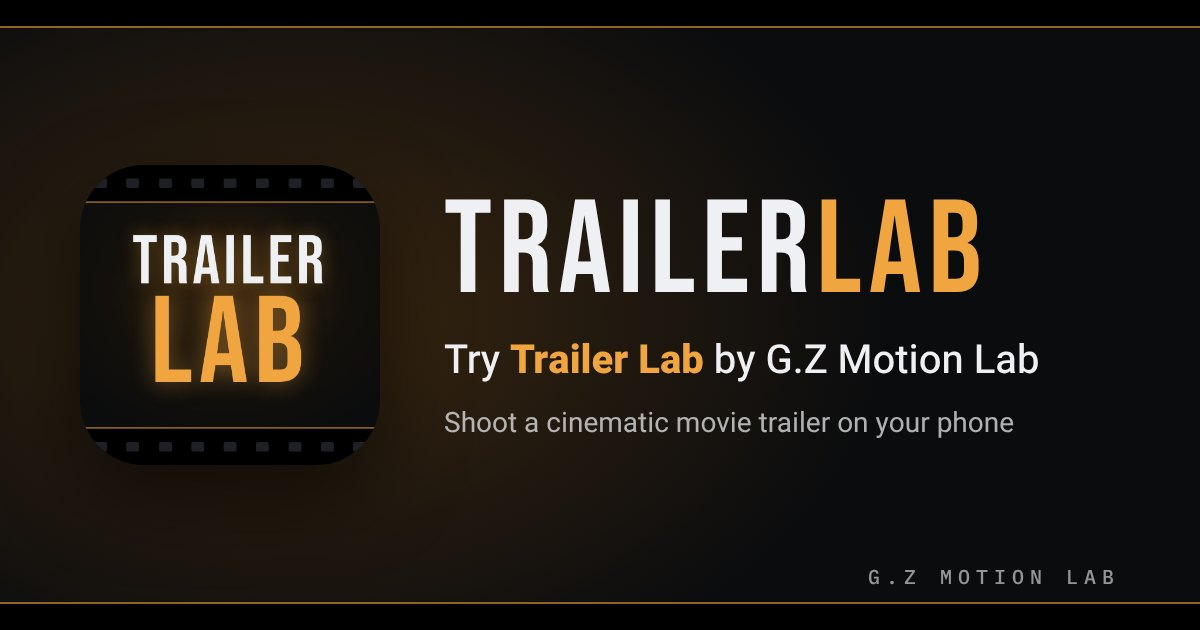
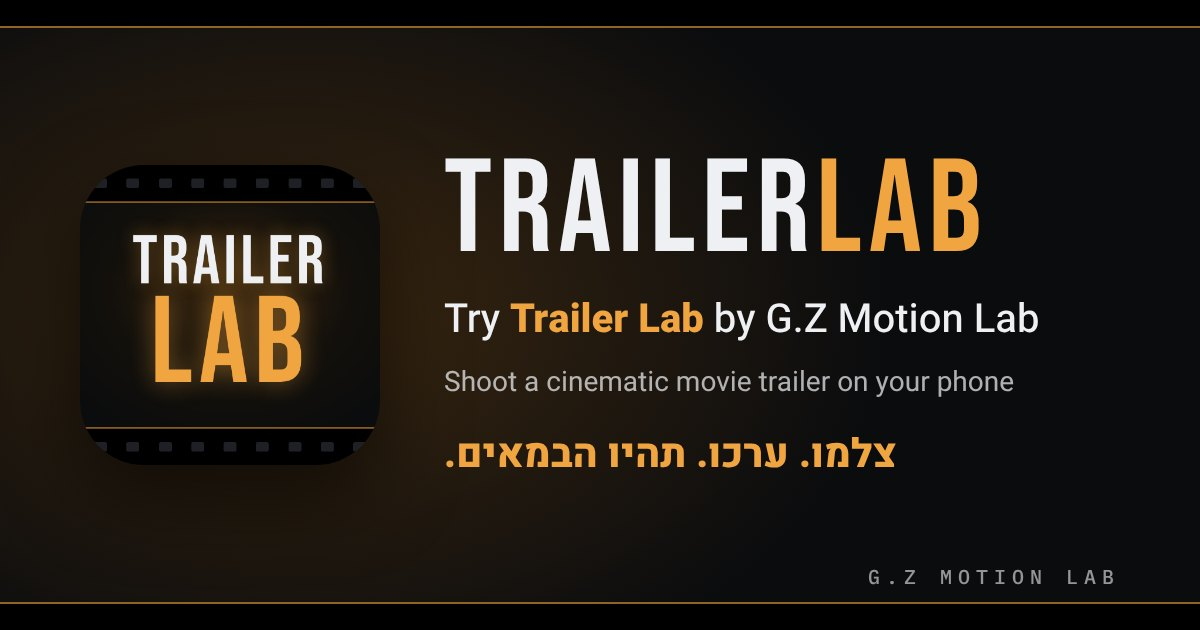
Marketing line for kids and teens: shoot, edit, be the director
Claude-Session: https://claude.ai/code/session_01VdLm7zTEMd1huVT5ckAVnR

Changed region(s): [[0.37, 0.2413, 0.8633, 0.754]]

diff --git a/index.html b/index.html
@@ -6,7 +6,7 @@
 <meta property="og:type" content="website">
 <meta property="og:site_name" content="G.Z Motion Lab">
 <meta property="og:title" content="Trailer Lab · by G.Z Motion Lab">
-<meta property="og:description" content="Try Trailer Lab by G.Z Motion Lab. Shoot a cinematic movie trailer on your phone.">
+<meta property="og:description" content="Try Trailer Lab by G.Z Motion Lab. צלמו. ערכו. תהיו הבמאים: טריילר קולנועי מהטלפון.">
 <meta property="og:url" content="https://gzfilm.github.io/trailer-lab/">
 <meta property="og:image" content="https://gzfilm.github.io/trailer-lab/share.jpg">
 <meta property="og:image:secure_url" content="https://gzfilm.github.io/trailer-lab/share.jpg">
@@ -16,10 +16,10 @@
 <meta property="og:image:alt" content="Trailer Lab · by G.Z Motion Lab">
 <meta name="twitter:card" content="summary_large_image">
 <meta name="twitter:title" content="Trailer Lab · by G.Z Motion Lab">
-<meta name="twitter:description" content="Try Trailer Lab by G.Z Motion Lab. Shoot a cinematic movie trailer on your phone.">
+<meta name="twitter:description" content="Try Trailer Lab by G.Z Motion Lab. צלמו. ערכו. תהיו הבמאים: טריילר קולנועי מהטלפון.">
 <meta name="twitter:image" content="https://gzfilm.github.io/trailer-lab/share.jpg">
 <meta name="theme-color" content="#0b0c0e">
-<meta name="description" content="צילום טריילרים קולנועיים בטלפון ובטאבלט">
+<meta name="description" content="האפליקציה שהופכת כל ילד ונער לבמאי: מצלמים בטלפון לפי רשימת שוטים מקצועית, ומקבלים טריילר קולנועי עם כותרות, מוזיקה וקרדיטים.">
 <link rel="manifest" href="manifest.webmanifest">
 <link rel="icon" type="image/png" href="icons/favicon-48.png">
 <link rel="apple-touch-icon" href="icons/apple-touch-icon.png">
@@ -399,7 +399,7 @@ h1,h2,h3{margin:0;font-weight:700;text-wrap:balance}
       <div class="hero">
         <span class="eyebrow">פרויקט חדש</span>
         <h1 class="h1">איזה טריילר מצלמים היום?</h1>
-        <p class="dim" style="margin:0">כל ז׳אנר מגיע עם רשימת שוטים, כרטיסי כותרת, גרפיקה ומוזיקה מקורית. מצלמים כל שוט 5 שניות, והאפליקציה עורכת.</p>
+        <p class="dim" style="margin:0">צלמו. ערכו. תהיו הבמאים. בוחרים ז׳אנר, מצלמים כל שוט 5 שניות לפי רשימת שוטים של במאי, והאפליקציה עורכת טריילר עם כותרות, מוזיקה וקרדיטים.</p>
       </div>
       <button class="panel cont" id="contCard" hidden></button>
       <div class="genres" id="genres"></div>
@@ -1898,7 +1898,8 @@ $("#drawer nav").addEventListener("click",async e=>{const b=e.target.closest("bu
     info("הוספה למסך הבית",`<p>ככה מוסיפים את האייקון של Trailer Lab למסך הבית:</p><ul><li>פתח את <b>${APP_URL.replace("https://","")}</b> ב-Chrome.</li><li>לחץ על <b>⋮</b> בפינה העליונה.</li><li>בחר <b>הוספה למסך הבית</b> או <b>התקנת אפליקציה</b>.</li><li>אשר. האייקון יופיע ליד שאר האפליקציות.</li></ul><p>באייפד: בספארי לוחצים על כפתור השיתוף ואז <b>הוספה למסך הבית</b>.</p>`);return}
   if(go==="updates"){info("מה חדש",UPDATES.map(([v,d,l])=>`<div class="ver"><b>גרסה ${v}<span>${d}</span></b><ul>${l.map(x=>`<li>${x}</li>`).join("")}</ul></div>`).join(""));return}
   if(go==="about"){info("אודות",`<div style="font-family:var(--brand);font-size:40px;letter-spacing:.06em;direction:ltr;text-align:center;line-height:1">TRAILER<b style="font-weight:400;color:var(--accent)">LAB</b></div>
-    <p>Trailer Lab הופכת את הטלפון למצלמת טריילרים. בוחרים ז׳אנר, מצלמים כל שוט 5 שניות לפי רשימת שוטים של במאי, והאפליקציה בוחרת את הרגע הכי חזק בכל שוט, מוסיפה כותרות, מוזיקה וקרדיטים, ומייצאת טריילר מוכן.</p>
+    <p><b>צלמו. ערכו. תהיו הבמאים.</b></p>
+    <p>Trailer Lab הופכת את הטלפון למצלמת טריילרים, לילדים ולנוער שאוהבים לצלם. בוחרים ז׳אנר, מצלמים כל שוט 5 שניות לפי רשימת שוטים של במאי, והאפליקציה בוחרת את הרגע הכי חזק בכל שוט, מוסיפה כותרות, מוזיקה וקרדיטים, ומייצאת טריילר מוכן.</p>
     <p>הקליפים נשמרים רק במכשיר שלך. שום דבר לא עולה לשרת.</p>
     <p>פיתוח ועיצוב: GZFILM · גל זיו</p>
     <p style="color:var(--faint)">גרסה ${VERSION}<br>© כל הזכויות שמורות · <span style="direction:ltr;display:inline-block">G.Z MOTION LAB</span></p>`);return}

diff --git a/README.md b/README.md
@@ -1,7 +1,18 @@
 # Trailer Lab
 
-אפליקציית רשת לצילום טריילרים קולנועיים בטלפון. בוחרים ז׳אנר, מצלמים כל שוט 5 שניות לפי רשימת השוטים, והאפליקציה בוחרת את הקטע עם הכי הרבה תנועה, מוסיפה כרטיסי כותרת ומוזיקה מקורית ומייצאת קובץ MP4.
+**צלמו. ערכו. תהיו הבמאים.**
 
-גרסה 1: אקשן ואימה.
+האפליקציה שהופכת כל ילד ונער לבמאי: מצלמים בטלפון לפי רשימת שוטים מקצועית, ומקבלים טריילר קולנועי עם כותרות, מוזיקה וקרדיטים.
 
-GZFILM · Gal Ziv Motion Lab
+**האפליקציה:** https://gzfilm.github.io/trailer-lab/
+
+- בוחרים ז׳אנר: אקשן, אימה, מרדף, מותחן, הרפתקה, מדע בדיוני, פנטזיה, מערבון, קומדיה, דרמה וספורט.
+- מצלמים כל שוט 5 שניות לפי רשימת שוטים של במאי, עם קווי מסגור על המסך.
+- האפליקציה בוחרת את הרגע הכי חזק בכל שוט, מוסיפה כותרות, מוזיקה וקרדיטים, ומייצאת MP4.
+- פוסטר ותמונה ממוזערת לסרט, ושמירת פרויקטים כדי להמשיך בפעם הבאה.
+
+**פרטיות:** הכול נשמר רק במכשיר עצמו. הסרטונים והשמות לא נשלחים לשום מקום.
+
+---
+
+© 2026 G.Z MOTION LAB
